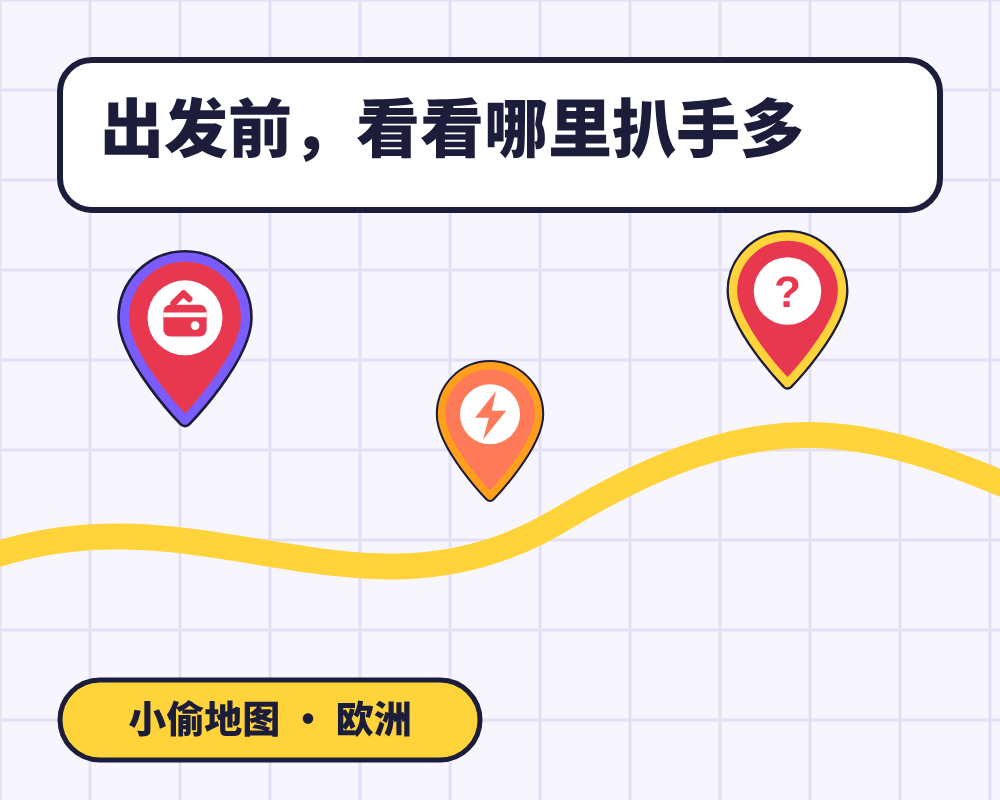
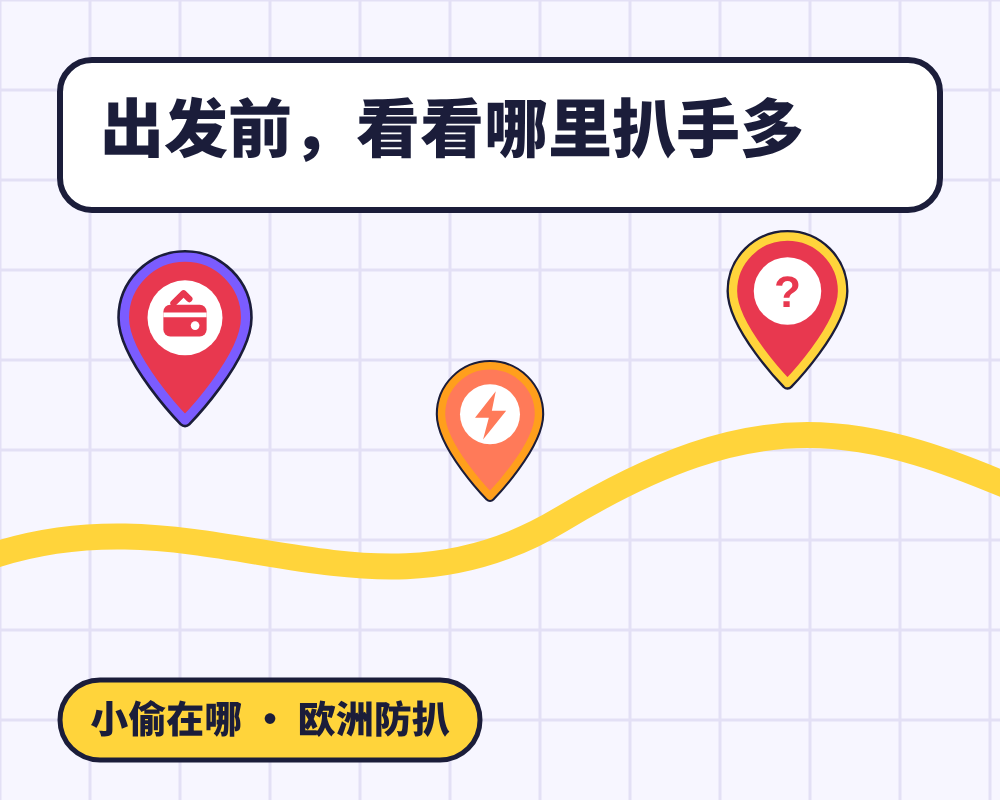
chore(weapp): rename in-app brand to 小偷在哪 to match the registered mini program name
Claude-Session: https://claude.ai/code/session_013VbrRxAxzd7yo769fENDRu

Changed region(s): [[0.093, 0.875, 0.465, 0.9375]]

diff --git a/weapp/miniprogram/pages/doc/doc.js b/weapp/miniprogram/pages/doc/doc.js
@@ -1,14 +1,14 @@
 const font = require('../../utils/font');
 const cfg = require('../../utils/config');
 
-const who = cfg.operator || '小偷地图运营者';
+const who = cfg.operator || '小偷在哪运营者';
 const mail = cfg.contactEmail ? '联系邮箱：' + cfg.contactEmail + '。' : '可通过小程序「申诉」页或微信小程序后台的「投诉与反馈」联系我们。';
 
 const DOCS = {
   privacy: {
     title: '隐私政策',
     sections: [
-      { h: '一、我们是谁', p: ['小偷地图由' + who + '运营，帮助出境游客了解欧洲各地有出处的失窃记录。' + mail] },
+      { h: '一、我们是谁', p: ['小偷在哪由' + who + '运营，帮助出境游客了解欧洲各地有出处的失窃记录。' + mail] },
       { h: '二、我们收集哪些信息', p: [
         '1. 微信为每位用户分配的匿名标识（OpenID），用于区分你提交的内容、记录你的审查投票和「喜欢」，不包含你的微信号、昵称或手机号。',
         '2. 你主动提交的上报内容：地点名称和坐标、遭遇类型、被偷物品、日期、经过描述和证据图片。',
@@ -35,7 +35,7 @@ const DOCS = {
   terms: {
     title: '用户协议',
     sections: [
-      { h: '一、服务说明', p: ['小偷地图汇集欧洲各地有出处的失窃信息（警方通报、官方开放数据、媒体报道、经审核的游客上报），仅供出行参考。记录多少不代表遇窃概率，也不代表对任何商家或场所的违法认定。'] },
+      { h: '一、服务说明', p: ['小偷在哪汇集欧洲各地有出处的失窃信息（警方通报、官方开放数据、媒体报道、经审核的游客上报），仅供出行参考。记录多少不代表遇窃概率，也不代表对任何商家或场所的违法认定。'] },
       { h: '二、你提交的内容', p: [
         '只上报亲身经历或亲眼所见的情况，不得虚构、夸大或恶意标记。',
         '不得在内容中填写他人的姓名、电话、证件号、车牌、人脸照片等个人信息。',

diff --git a/weapp/deploy.js b/weapp/deploy.js
@@ -1,5 +1,5 @@
-// 小偷地图 · 一键发布：① 从 GitHub 同步最新代码 ② 部署云函数 api ③ 上传小程序代码（开发版）
-// 用法：双击「发布小偷地图.bat」。本机文件 private.key / env.txt / admin-code.json 永远不会被覆盖。
+// 小偷在哪 · 一键发布：① 从 GitHub 同步最新代码 ② 部署云函数 api ③ 上传小程序代码（开发版）
+// 用法：双击「发布小偷在哪.bat」。本机文件 private.key / env.txt / admin-code.json 永远不会被覆盖。
 'use strict';
 const fs = require('fs');
 const os = require('os');
@@ -83,7 +83,7 @@ async function syncFromGitHub() {
   const version = '1.0.' + (now.getMonth() + 1) + String(now.getDate()).padStart(2, '0') + String(now.getHours()).padStart(2, '0') + String(now.getMinutes()).padStart(2, '0');
   console.log('[3/3] 上传小程序代码，版本 ' + version + ' …');
   await ci.upload({
-    project, version, desc: '小偷地图 ' + version, robot: 1,
+    project, version, desc: '小偷在哪 ' + version, robot: 1,
     setting: { es6: true, es7: true, minify: true, autoPrefixWXSS: true, minifyWXML: true, minifyWXSS: true }
   });
   console.log('      代码已上传为开发版');

diff --git a/weapp/miniprogram/pages/index/index.js b/weapp/miniprogram/pages/index/index.js
@@ -45,10 +45,10 @@ Page({
     if (this.needReload) { this.needReload = false; this.load(); }
   },
   onShareAppMessage() {
-    return { title: '小偷地图｜出发前看看' + this.data.cityName + '哪里扒手多', path: '/pages/index/index?city=' + encodeURIComponent(this.data.cityName), imageUrl: '/images/share.png' };
+    return { title: '小偷在哪｜出发前看看' + this.data.cityName + '哪里扒手多', path: '/pages/index/index?city=' + encodeURIComponent(this.data.cityName), imageUrl: '/images/share.png' };
   },
   onShareTimeline() {
-    return { title: '小偷地图｜共建无扒之旅', query: 'city=' + encodeURIComponent(this.data.cityName), imageUrl: '/images/share.png' };
+    return { title: '小偷在哪｜共建无扒之旅', query: 'city=' + encodeURIComponent(this.data.cityName), imageUrl: '/images/share.png' };
   },
 
   /* ---------- 城市与数据 ---------- */

diff --git a/weapp/miniprogram/pages/me/me.js b/weapp/miniprogram/pages/me/me.js
@@ -11,7 +11,7 @@ Page({
   },
   onLoad() { this.setData({ navTop: nav.top() }); },
   onShow() { this.syncFont(); this.load(); },
-  onShareAppMessage() { return { title: '小偷地图｜出发前看看哪里扒手多', path: '/pages/index/index', imageUrl: '/images/share.png' }; },
+  onShareAppMessage() { return { title: '小偷在哪｜出发前看看哪里扒手多', path: '/pages/index/index', imageUrl: '/images/share.png' }; },
   syncFont() { const k = font.get(); this.setData({ rootFs: font.size(), fontKey: k, fontName: font.LEVELS.find(l => l.key === k).name }); },
   load() { api.call('me').then(me => this.setData({ me })).catch(() => {}); },
 

diff --git a/tests/weapp.test.js b/tests/weapp.test.js
@@ -1,4 +1,4 @@
-// 小偷地图微信小程序：工程完整性 + 云函数全流程（内存数据库模拟 wx-server-sdk）
+// 小偷在哪微信小程序：工程完整性 + 云函数全流程（内存数据库模拟 wx-server-sdk）
 const test = require('node:test'), assert = require('node:assert/strict'), fs = require('node:fs'), path = require('node:path'), Module = require('node:module');
 const W = path.join(__dirname, '..', 'weapp'), MP = path.join(W, 'miniprogram'), CF = path.join(W, 'cloudfunctions', 'api');
 const read = p => fs.readFileSync(p, 'utf8');

diff --git a/weapp/miniprogram/pages/place/place.js b/weapp/miniprogram/pages/place/place.js
@@ -10,7 +10,7 @@ Page({
   onShow() { this.setData({ rootFs: font.size() }); },
   onShareAppMessage() {
     const p = this.data.place;
-    return { title: p ? '小偷地图｜' + p.city + ' ' + p.name + ' 的失窃记录' : '小偷地图', path: '/pages/place/place?id=' + this.id };
+    return { title: p ? '小偷在哪｜' + p.city + ' ' + p.name + ' 的失窃记录' : '小偷在哪', path: '/pages/place/place?id=' + this.id };
   },
 
   load() {

diff --git a/weapp/miniprogram/app.js b/weapp/miniprogram/app.js
@@ -5,7 +5,7 @@ App({
   globalData: { city: '伦敦', pendingPlace: null },
   onLaunch() {
     if (!wx.cloud) {
-      wx.showModal({ title: '版本过低', content: '请升级微信后再使用小偷地图', showCancel: false });
+      wx.showModal({ title: '版本过低', content: '请升级微信后再使用小偷在哪', showCancel: false });
       return;
     }
     wx.cloud.init({ env: cfg.cloudEnv || undefined, traceUser: true });

diff --git a/weapp/cloudfunctions/api/lib/rules.js b/weapp/cloudfunctions/api/lib/rules.js
@@ -1,4 +1,4 @@
-// 小偷地图 · 共享规则：类别、图钉状态、审查人数分档、输入校验。
+// 小偷在哪 · 共享规则：类别、图钉状态、审查人数分档、输入校验。
 // 云函数与测试共用；小程序端 utils/rules.js 是同一份常量的前端副本。
 'use strict';
 

diff --git a/weapp/cloudfunctions/api/index.js b/weapp/cloudfunctions/api/index.js
@@ -1,4 +1,4 @@
-// 小偷地图 · 云函数 api（单入口路由）
+// 小偷在哪 · 云函数 api（单入口路由）
 // 小程序端所有读写都经过这里；数据库集合对客户端一律不开放。
 'use strict';
 const cloud = require('wx-server-sdk');

diff --git a/weapp/LAUNCH.md b/weapp/LAUNCH.md
@@ -1,4 +1,4 @@
-# 小偷地图 · 上线清单
+# 小偷在哪 · 上线清单
 
 按顺序做。标 ✅ 的我已经在代码里完成；其余需要在小程序后台或云开发控制台里操作，每项都附了可以直接复制的文字。
 
@@ -8,13 +8,13 @@
 - ✅ 云环境 ID 写死为 `cloud1-d3g0dog0f49565148`（`utils/config.js` 的 `cloudEnv`）
 - ✅ 默认城市改为伦敦（记录最多，审核人员打开就能看到内容）
 - ✅ 分享卡片封面 `miniprogram/images/share.png`
-- ✅ 一键发布脚本：双击 `发布小偷地图.bat` 会先从 GitHub 同步最新代码，再部署云函数和上传代码
+- ✅ 一键发布脚本：双击 `发布小偷在哪.bat` 会先从 GitHub 同步最新代码，再部署云函数和上传代码
 - ⬜ **运营者信息**：`miniprogram/utils/config.js` 填 `operator`（你的姓名，和后台主体一致）和 `contactEmail`。这两项会显示在隐私政策里。
 
 ## 二、小程序后台（mp.weixin.qq.com）
 
 ### 1. 基本信息（设置 → 基本设置）
-- **名称**：小偷地图（被占用可用：小偷地图欧洲版 / 防扒地图）
+- **名称**：小偷在哪（被占用可用：小偷在哪欧洲版 / 防扒地图）
 - **头像**：`brand/logo-512.png`
 - **简介**（复制）：
   > 欧洲防扒地图：查看各城市有出处的扒窃、抢夺、诈骗套路记录，出发前了解哪里需要多留心；被偷后怎么办一键查看。
@@ -37,7 +37,7 @@
 申请 `wx.getLocation`、`wx.chooseLocation`。
 
 - 使用场景（复制）：
-  > 小偷地图是欧洲防扒信息查询工具。用户点击地图上的「定位」按钮时获取当前位置，把地图移到用户附近，查看周边已标记的失窃地点；用户上报失窃经历时选择发生位置。仅在用户主动点击时获取，不在后台持续获取。
+  > 小偷在哪是欧洲防扒信息查询工具。用户点击地图上的「定位」按钮时获取当前位置，把地图移到用户附近，查看周边已标记的失窃地点；用户上报失窃经历时选择发生位置。仅在用户主动点击时获取，不在后台持续获取。
 - 需要上传截图：首页地图（定位按钮）、上报页（选择位置）。
 
 ### 4. 小程序备案（设置 → 基本设置 → 小程序备案）
@@ -65,11 +65,11 @@
 
 ## 四、提交审核（版本管理）
 
-1. 双击 `发布小偷地图.bat` 上传最新代码
+1. 双击 `发布小偷在哪.bat` 上传最新代码
 2. 版本管理 → 开发版「选为体验版」→ 扫码检查：首页地图和列表、详情、上报、申诉、我的
 3. 「提交审核」，**审核备注**（复制）：
 
-> 小偷地图是面向中国出境游客的欧洲防扒信息查询工具。
+> 小偷在哪是面向中国出境游客的欧洲防扒信息查询工具。
 > 1. 地图数据来自英国警方开放数据（data.police.uk，开放政府许可）、各国警方通报和公开媒体报道，每条记录在详情页注明出处。
 > 2. 用户上报的内容和图片仅提交者本人和管理员可见；管理员人工审核后，以改写、脱敏的文字公开，不公开用户原文和图片。
 > 3. 所有用户文字提交前经过微信内容安全接口检测。

diff --git a/weapp/README.md b/weapp/README.md
@@ -1,8 +1,8 @@
-# 小偷地图 · 微信小程序
+# 小偷在哪 · 微信小程序
 
 欧洲防扒地图的微信小程序版。页面结构和交互逻辑与「床虱地图」一致，视觉更年轻：
 
-| 床虱地图 | 小偷地图 |
+| 床虱地图 | 小偷在哪 |
 |---|---|
 | 床虱 / 蟑螂 / 其他害虫 三个开关 | 扒窃 / 抢夺 / 诈骗套路 |
 | 图钉中心＝结论，外圈＝审查人数 | 同：中心图标＝类别，颜色＝谁认定的，外圈＝参与审查人数（0 / 1–2 / 3–5 / 6–10 / 11+） |
@@ -41,7 +41,7 @@ weapp/
 3. **部署云函数**：右键 `cloudfunctions/api` →「上传并部署：云端安装依赖」。
 4. **设置管理员邀请码**：云开发控制台 → 云函数 → api → 函数配置 → 环境变量，新增 `ADMIN_INVITE_CODE`（至少 8 位，自己保管）。
 5. **存储权限**：云开发控制台 → 存储 → 权限设置，选「仅创建者可读写」。证据图片只有上传者和管理员（经云函数）能看到。
-6. **成为管理员**：在小程序「我的」页**长按底部「小偷地图 · 共建无扒之旅」**，输入邀请码。
+6. **成为管理员**：在小程序「我的」页**长按底部「小偷在哪 · 共建无扒之旅」**，输入邀请码。
 7. **初始化数据**：管理后台 →「数据」→ 先点「初始化数据库」，再点「同步官方数据」。地图上就会出现罗马、米兰、巴塞罗那、伦敦等城市的真实记录。
 8. **建索引（建议）**：数据库 `places` 集合给 `city` 建索引；`reports`、`appeals` 给 `status`、`_openid` 建索引。
 
@@ -54,7 +54,7 @@ weapp/
 - **地理位置接口**：`getLocation`、`chooseLocation` 需要在后台「开发管理 → 接口设置」申请，用途写「在地图上定位到用户所在位置、上报时选择地点」。
 - **内容安全**：所有用户文字提交时都会调用微信 `msgSecCheck`，命中风险直接拒绝；所有内容还要经过管理员人工审核才会公开。
 - **数据出境**：数据存储在腾讯云中国境内服务器，不调用境外接口。官方数据随云函数一起打包部署。
-- **运营者信息**：填写 `miniprogram/utils/config.js` 的 `operator` 和 `contactEmail`，与后台主体信息一致。不填会显示「小偷地图运营者」。
+- **运营者信息**：填写 `miniprogram/utils/config.js` 的 `operator` 和 `contactEmail`，与后台主体信息一致。不填会显示「小偷在哪运营者」。
 
 ## 地图说明
 
